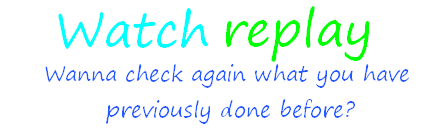
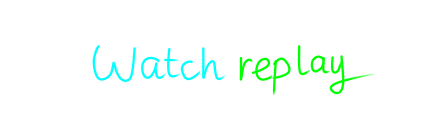
Update branch
Check Readme for more info

Changed region(s): [[0.0886, 0.0312, 0.9455, 0.75], [0.2364, 0.7812, 0.8273, 0.9688]]

diff --git a/README.md b/README.md
@@ -1,11 +1,13 @@
-# Project: osu! Gacha Club (Repository: osu-Mg-reload)
-1 of 2 core projects of osu! Gacha Club, with the purpose to bring Gacha Club to osu! game. Transferred and/or revamped from osu-mg-skin
+# Project: osu! Gacha Club | Sub-project: osu! Mg - Season 01  | Branch: v.5.1.x
+
+![Project Banner Season 1](https://github.com/user-attachments/assets/a769a7f7-a899-40cf-9699-467ea15445b5)
+
+
+1 of 2 core projects of osu! Gacha Club, with the purpose to bring Gacha Club to osu! game. Transferred and/or revamped from [osu-mg-skin](https://github.com/greenmg2003/osu-Mg-skin)
 
 You may want to jump to [skin preview](#-media-latest-version-)
 
-Please consider taking it for free, credits me if you want to reuse some of my Gacha Club elements ^^
-
-Status: This branch is currently active, and **there will be** 1 last major update to close Season 1 - Coming soon at 5.1.0. Thank you for all your support!
+Current status: Project is realeasing the translation for Vietnamese and Japanese support! There will be more updates in the future!!
 
 [Stability Status]: As of now, the project is stable. There is [the post exposing the hatred towards this project](https://github.com/greenmg2003/osu-mg-reload/blob/main/30-01-2025-serious-report.md).
 
@@ -17,7 +19,7 @@ Status: This branch is currently active, and **there will be** 1 last major upda
 
 - Co-leader: **Hikari Richiumu**
 
-- Latest Version: [**5.0.3**](https://github.com/alphamg2003/osu-Mg-reload/releases/tag/v.5.0.3-release)
+- Latest Version: [**5.0.5**](https://github.com/alphamg2003/osu-Mg-reload/releases/tag/v.5.0.5-release)
 
 - Copyright issue: Assets that are made from other skins is credited to the owners. Any elements that are made with Gacha Club, if you want to reuse it, please credit me. It's a non-commercial project after all.
 
@@ -27,21 +29,15 @@ Sub-project: [VTuber Alpha Mg](https://github.com/alphamg2003/Alpha_Mg_VTuber)
 
 #                                 ~ Important ~
                                  
-~⚠ The Project (along with big project - osu! Gacha Club) no longer affiliates and no longer supports Gacha Community anymore, starting from 15th May, 2024, until the end of 14th April 2025. That doesn't mean I stopped supporting the game, but please DO NOT refer this as a part of Gacha Community anymore. We simply do it for personal use at the start, and I bring this part of project for public use to everyone who supported us, not for serving and beautify Gacha Community anymore like it used to be.~ (This statement is subjected to be changed later)
+⚠ **The Project (along with big project - osu! Gacha Club) IS NOT a part of Gacha Community.** That does not mean I stopped supporting the game. We simply do it for personal use at the start, and I bring this part of project for public use to everyone who supported us, not for serving and beautify Gacha Community like in the past. [Read here to understand why](https://github.com/greenmg2003/osu-mg-reload/blob/main/project_direction.md). All the hatred that I received that is like "Ew Gacha" or "Gacha is disgusting" will be redirected to community, I do not have time to deal with that. The community does bad thing and they must suffer the consequences themselves, not me.
 
-Update on 24/03/2025 from Mg (me): I might re-consider supporting the community after the below community has done something worse to me, should the community choose to and welcome me and this project back
+⚠ **We DO NOT welcome kids from Gacha Community who are 16 years old and below, or cringe, heat content creators.** As stated, this project is only for the one who wish to sail on same boat with me and support me. 
 
-Update on 14/04/2025 from Mg (me): With the release of Gacha Story coming in 15/04/2025, I'll give the community the second chance to test
-
-⚠ **The Project (along with big project - osu! Gacha Club) also no longer affiliates and no longer supports RGVN, starting from 20th March, 2025. Their defamation behind my back has disgusted me.** Should they continue to consume this project to defame members of the project and caught red-handed, I'll file a lawsuit.
-
-⚠ **We DO NOT welcome member of RGVN (except explicit cases), Gacha players and other players who are woke LGBTQ+ (or should I say, the predators), and Gacha Kids (Gacha Players who are less than 14 years old).** If you are like that, and you wanna call me homophobic and disgusting guy, go on, I don't care. As stated, this project is only for the one who wish to sail on same boat with me and support me.
-
-✳ For 4.2.x: The skin is only SD-based, HD elements will be reworked once I have plenty of time to do
+✳ For 5.1.x: The skin is only SD.
 
 ✳ Want to contribue? [Great, read this first before contributing!](https://github.com/alphamg2003/osu-Mg-reload/blob/main/CONTRIBUTING.md)
 
-✳ Some issues mentioned in the changelog are from osu-mg-skin, you can go there and check
+✳ There might be some issues mentioned in the changelog that are from [osu-Mg-skin](https://github.com/greenmg2003/osu-Mg-skin), you can go there and check
 
 #                          ~ Mg's team in the skin - List of people ~
 
@@ -131,6 +127,19 @@ Update on 14/04/2025 from Mg (me): With the release of Gacha Story coming in 15/
 ![Result Screen](https://github.com/user-attachments/assets/252cf1a0-4958-448b-8bb4-a86c8c66cabb)
 
 # ~ Changelog ~
+# [5.0.5](https://github.com/alphamg2003/osu-Mg-reload/releases/tag/v.5.0.5-release)
+
+🔄 Overhauled the text in Pause Screen (Continue, Retry, Back, Watch Replay), check #79
+
+🔄 Fixed "Start" text not centralized
+
+🔄 Text update: "Maximum Recall" -> "Max Combo", "Full Recall" -> "Full Mana!!", "Recall Rate" -> "Mana Rate" (Mainly to avoid DMCA'd by Arcaea by the calling system)
+
+\+ リンバス カンパニー。
+
+# [5.0.4](https://github.com/greenmg2003/osu-mg-reload/releases/tag/v.5.0.4-lazer-release)
+
+\+ Lazer support
 
 # [5.0.3](https://github.com/alphamg2003/osu-Mg-reload/releases/tag/v.5.0.3-release)
 
